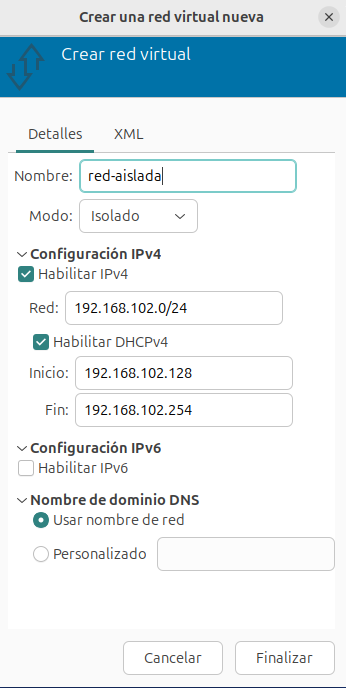
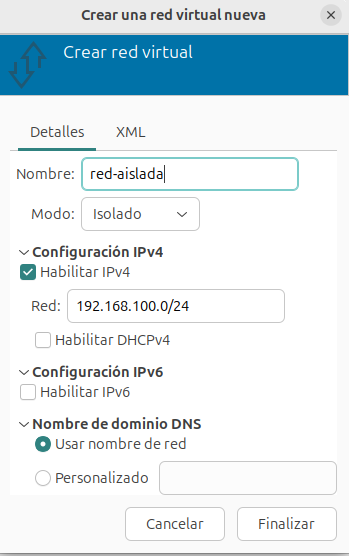
Unidad 06

Changed region(s): [[0.0, 0.0, 1.0, 0.8867], [0.0, 0.8867, 1.0, 1.0], [0.9538, 0.8255, 0.9827, 0.8867]]

diff --git a/curso1/contenidos/unidad06/clase5.md b/curso1/contenidos/unidad06/clase5.md
@@ -1,0 +1,37 @@
+# Ejemplo 1: Trabajando con redes virtuales privadas
+
+En este apartado vamos a configurar las dos máquinas que hemos creados con distintas configuraciones de red utilizando las redes virtuales que hemos creado.
+
+## Trabajando con la red de tipo NAT
+
+En primer lugar vamos a cambiar la configuración de la máquina Linux para conectarla a la red de tipo NAT llamad `red-nat` que hemos creado anteriormente (recordamos que el direccionamiento que pusimos para esta red es `192.168.101.0/24`). Para ello, modificamos la configuración del dispositivo de red de la máquina (recuerda que este cambio no se puede hacer con la máquina funcionando, si lo hacemos tendrá efecto tras un reinicio):
+
+![ejemplo](img/ejemplo1_1.png)
+
+Accedemos a la máquina virtual y comprobamos el direccionamiento que ha tomado:
+
+![ejemplo](img/ejemplo1_2.png)
+
+También podemos comprobar que tenemos acceso a internet sin ningún problema.
+
+## Trabajando con la red aislada
+
+A continuación vamos a conectar las dos máquinas a la red aislada llamada `red-aislada`, recordamos que habíamos deshabilitado el servidor DHCP y que en este caso comprobaremos que el host no hace la función de router con el mecanismo de NAT. Para ello vamos a realizar las siguientes configuraciones:
+
+* Vamos a modificar la configuración de la máquina Linux para conectarla a la red aislada, y posteriormente configuramos la interfaz de red de forma manual con el direccionamiento que habíamos configurado en la red `red-aislada` que era `192.168.102.0/24`, tenemos que recordar que en esta red está conectada el host con la dirección `192.168.102.1`.
+
+    ![ejemplo](img/ejemplo1_3.png)
+
+    ![ejemplo](img/ejemplo1_4.png)
+
+* Realizamos la misma operación en la máquina Windows:
+
+    ![ejemplo](img/ejemplo1_5.png)
+    
+    ![ejemplo](img/ejemplo1_6.png)
+
+### Comprobación de funcionamiento
+
+A continuación, arrancamos las máquinas y vamos a realizar algunas comprobaciones:
+
+* 

diff --git a/curso1/contenidos/unidad06/clase2.md b/curso1/contenidos/unidad06/clase2.md
@@ -50,7 +50,7 @@ Pulsamos sobre el botón de añadir una nueva red, indicamos el **Nombre**, en e
 
 * **Configuración IPv4**: 
     * Elegimos la opción de **Habilitar IPv4**, indicando la dirección de **Red** con la que vamos a trabajar. La primera dirección será la dirección IP del anfitrión en esta red y la puerta de enlace de las máquinas virtuales conectadas a esta red.
-    * En este caso y según nuestras necesidades podemos habilitar o no el servidor DHCP.
+    * En este caso y según nuestras necesidades podemos habilitar o no el servidor DHCP (No vamos a habilitar el servidor DHCP para realizar un ejercicio posteriormente).
 * **Configuración IPv6**: Si queremos trabajar con IPv6 podemos seleccionar la opción **Habilitar IPv6**.
 * **Nombre de dominio DNS**: Esta opción permiten definir cómo se asignará el dominio a las máquinas virtuales conectadas a esa red, funciona de la misma manera que en las redes de tipo NAT.
     

diff --git a/curso1/README.md b/curso1/README.md
@@ -36,7 +36,8 @@
     * [Definición de redes](contenidos/unidad06/clase2.md)
     * [Creación de un puente externo](contenidos/unidad06/clase3.md)
     * [Configuración de red en las máquinas virtuales](contenidos/unidad06/clase4.md)
-    * Ejemplos de configuración de red en máquinas virtuales
+    * Ejemplo 1: Trabajando con redes virtuales privadas
+    * Ejemplo 2: Trabajando con redes puentes públicas
 
 7. Temas adicionales
     * [Acceso a la máquina virtual usando la consola serie](contenidos/unidad07/clase1.md)
